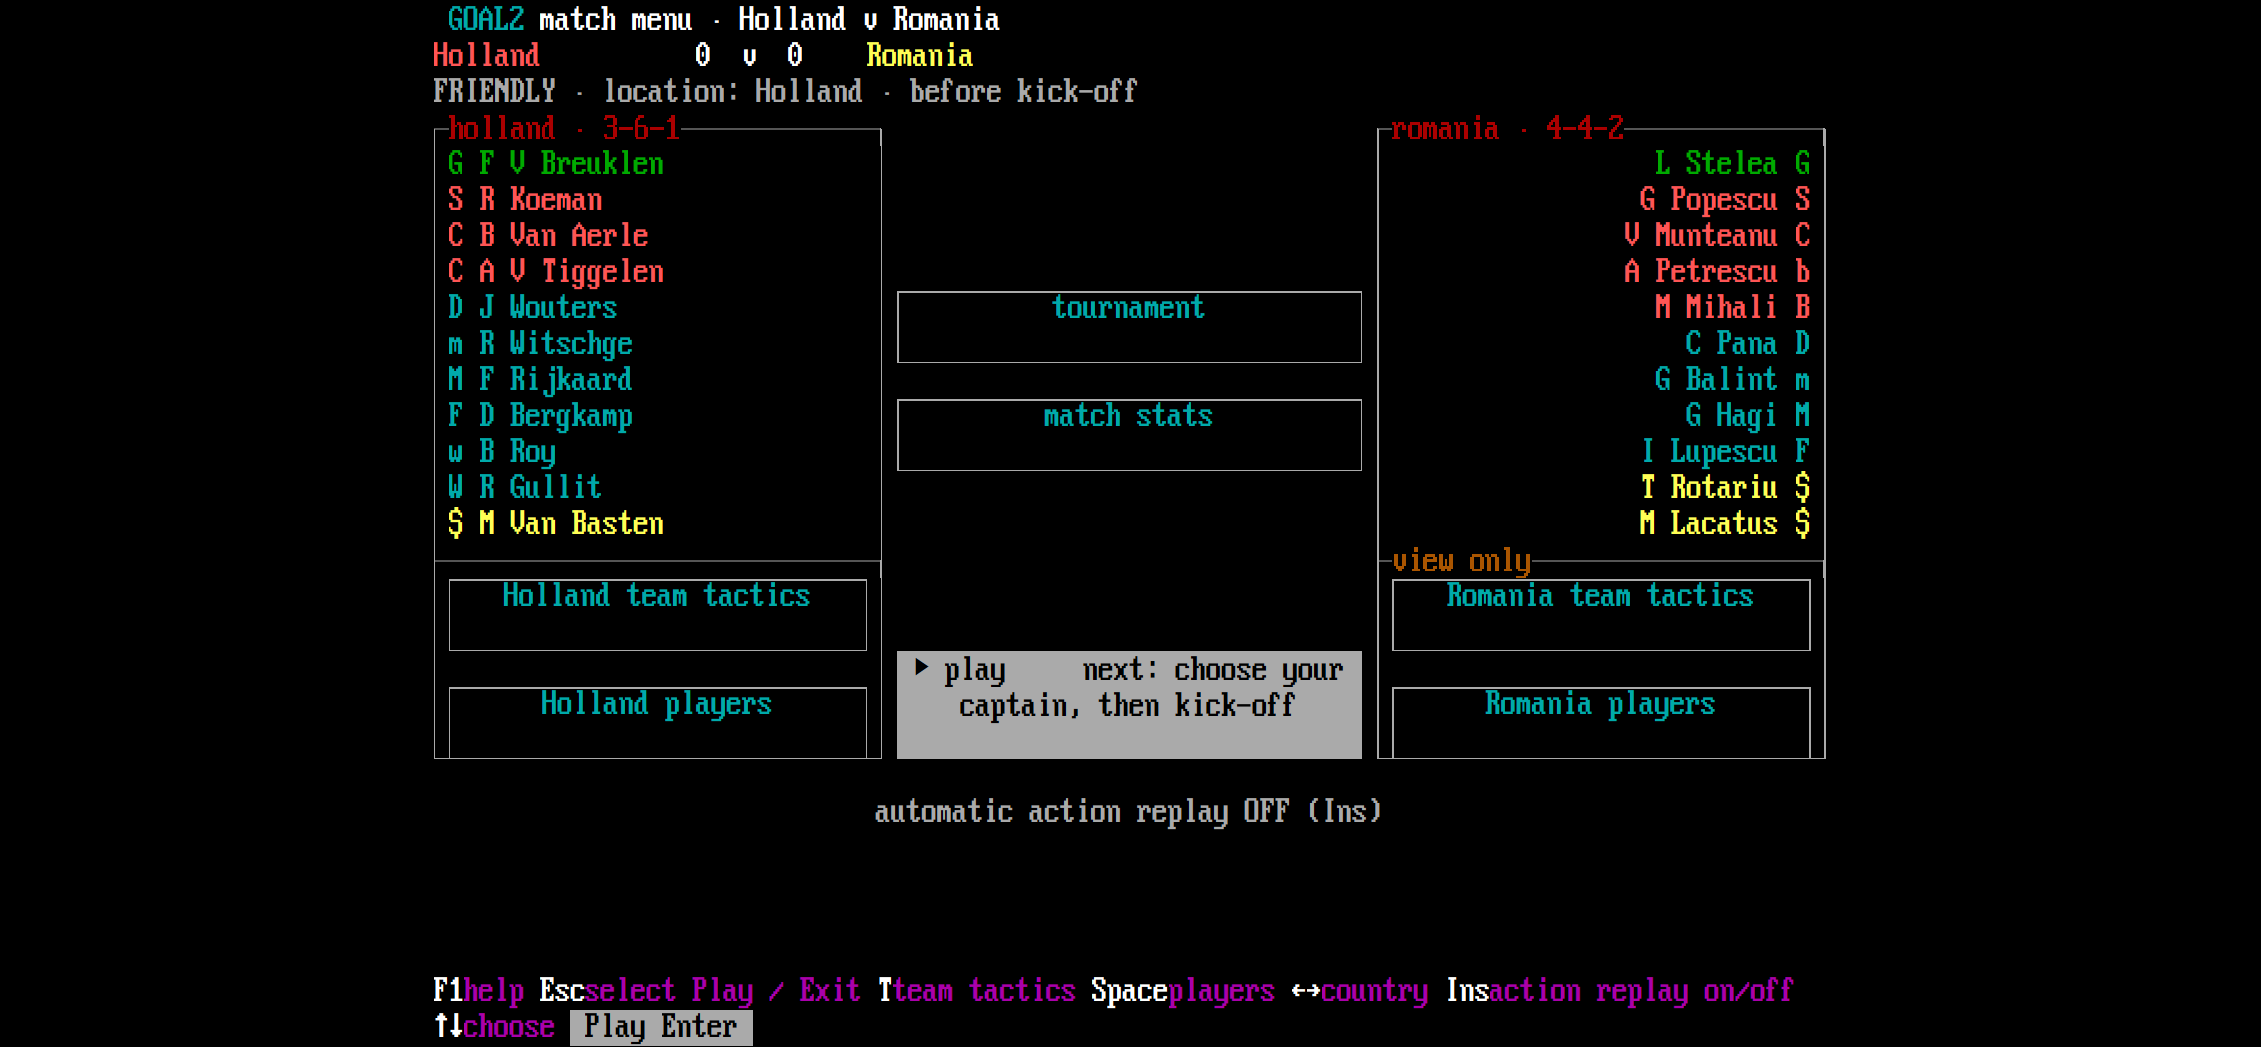
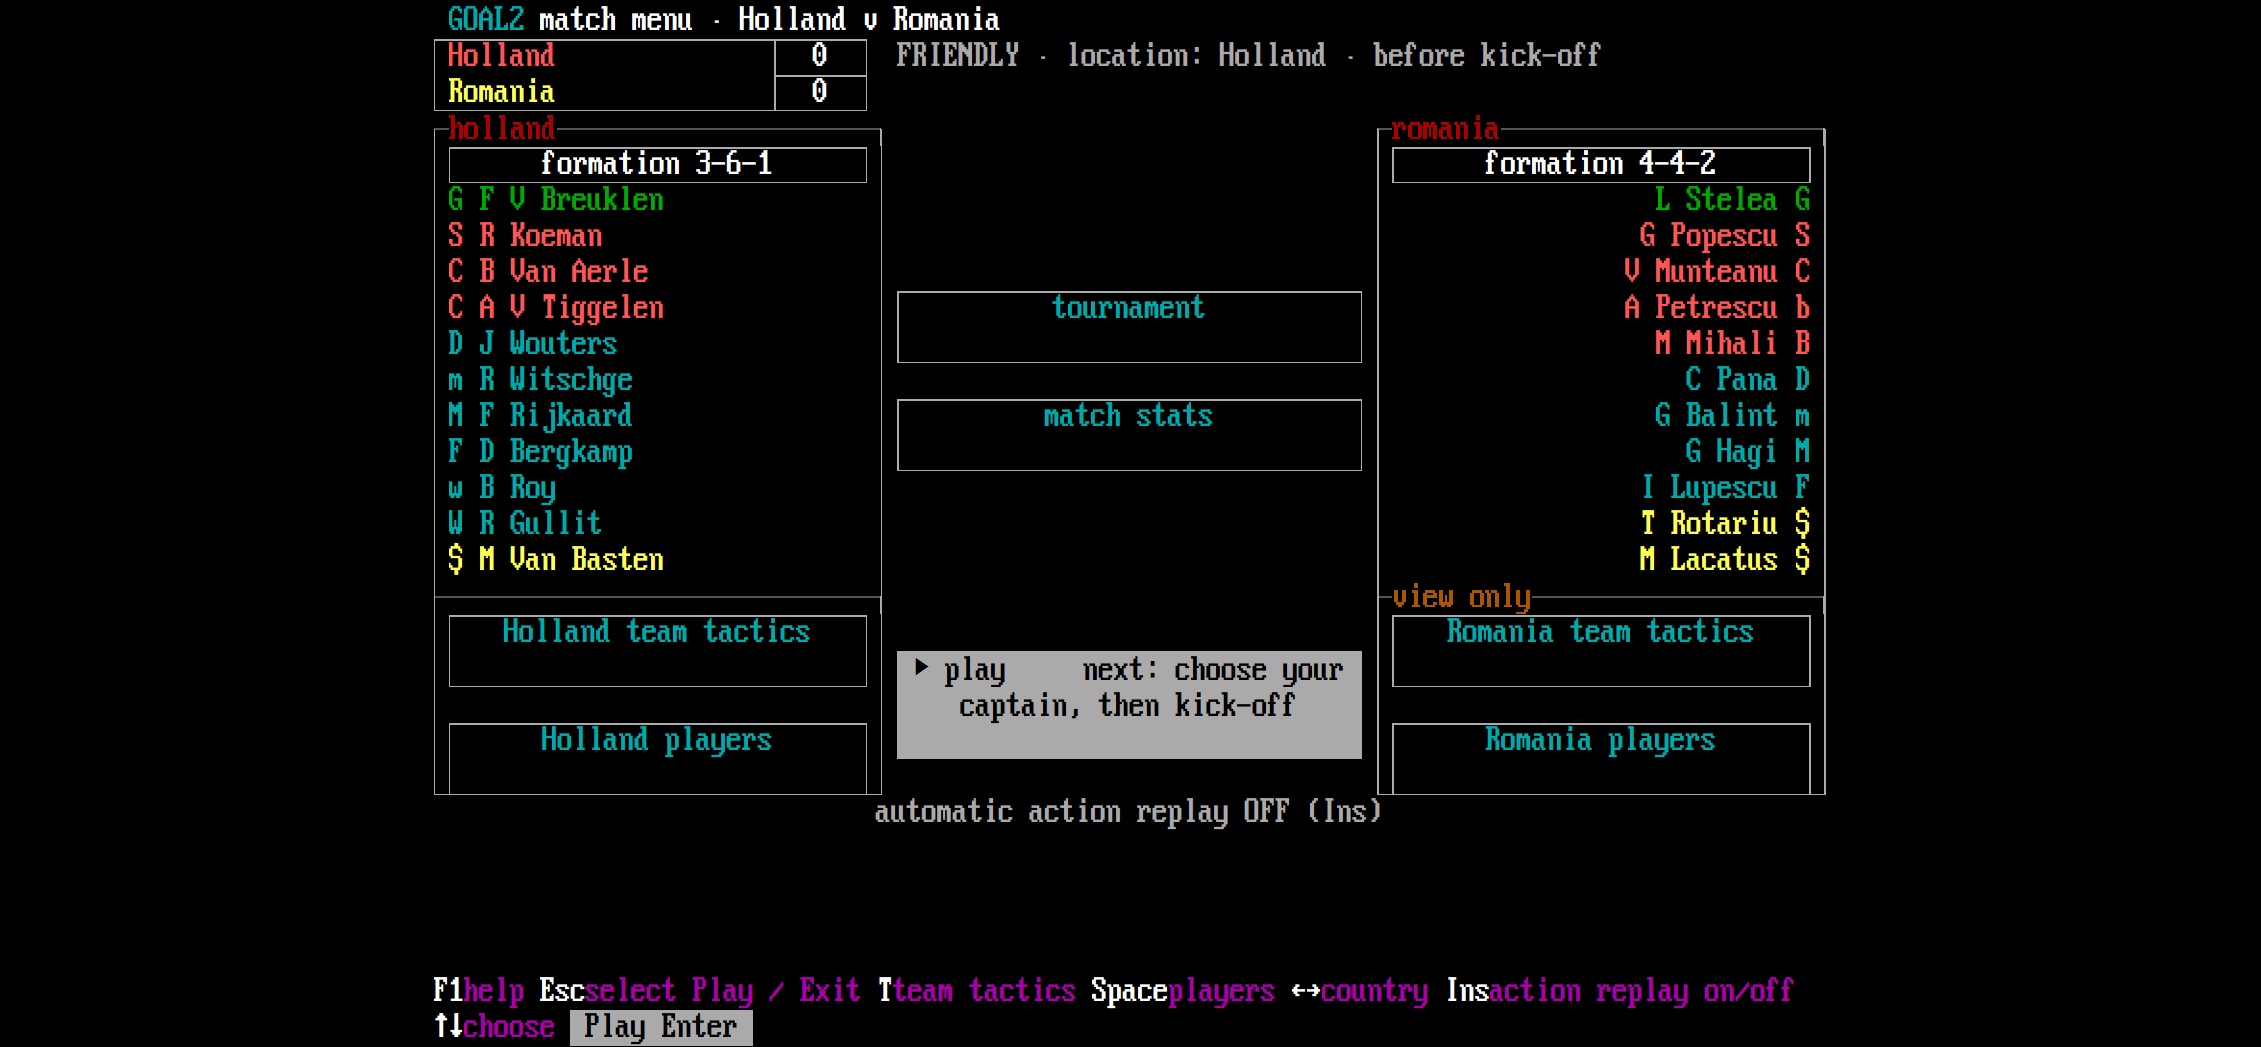
Capture boxed match scores and formations from Windows

diff --git a/docs/design/ui-2026-11/review-862/README.md b/docs/design/ui-2026-11/review-862/README.md
@@ -6,4 +6,4 @@
 | --- | --- | --- |
 | Start | [Fresh start](start-fresh-150.png) · [One save](start-one-150.png) · [Several saves](start-several-150.png) · [Refused load](start-refused-150.png) | [Original title and new-game flow](https://github.com/diegoami/goal2/blob/main/docs/original-game/playthrough.md#start-a-career) · [PR #865 and captures](https://github.com/diegoami/goal2/pull/865#issuecomment-7164422726) |
 | Bench | [24-player half-time Bench](bench-24-150.png) | [Original half-time decision](https://github.com/diegoami/goal2/blob/main/docs/original-game/playthrough.md#half-time-and-one-substitution) · [PR #866 and captures](https://github.com/diegoami/goal2/pull/866#issuecomment-7166479629) |
-| Match menu | [Before kick-off](match-menu-before-150.png) · [Half time](match-menu-half-150.png) · [Full time](match-menu-full-150.png) | [Original match-menu decision](https://github.com/diegoami/goal2/blob/main/docs/original-game/playthrough.md#round-one-the-results-so-far-and-the-match-menu) · [PR #870](https://github.com/diegoami/goal2/pull/870) |
+| Match menu with boxed scores and formations | [Before kick-off](match-menu-before-150.png) · [Half time](match-menu-half-150.png) · [Full time](match-menu-full-150.png) | [Original match-menu decision](https://github.com/diegoami/goal2/blob/main/docs/original-game/playthrough.md#round-one-the-results-so-far-and-the-match-menu) · [PR #872](https://github.com/diegoami/goal2/pull/872) |
